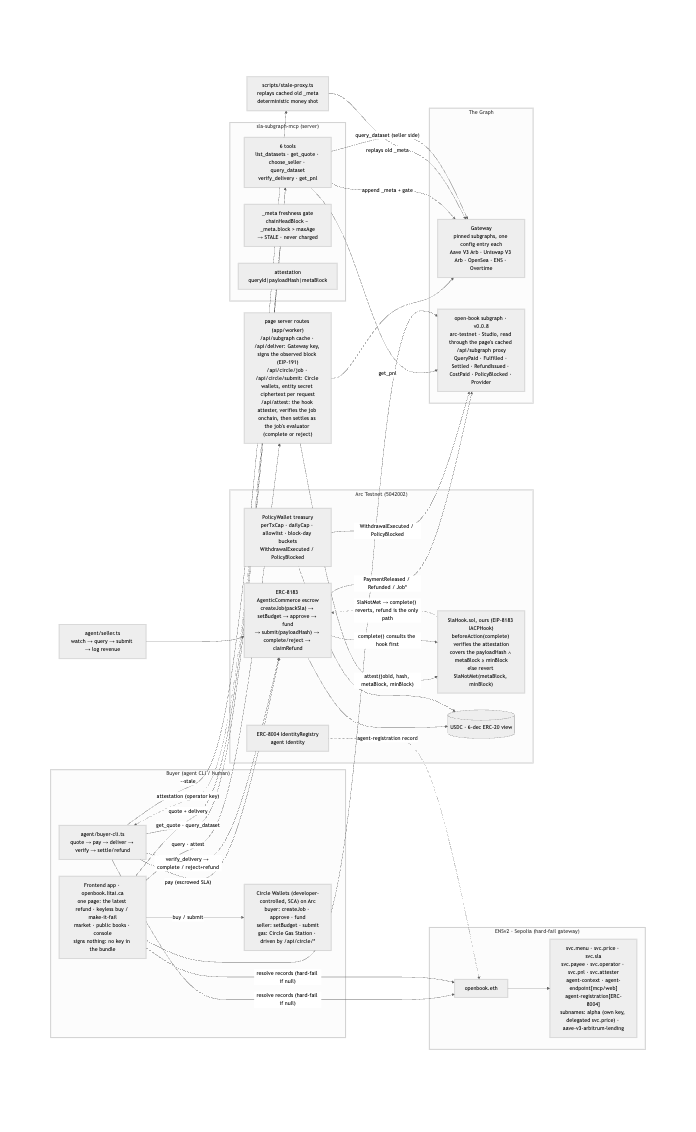
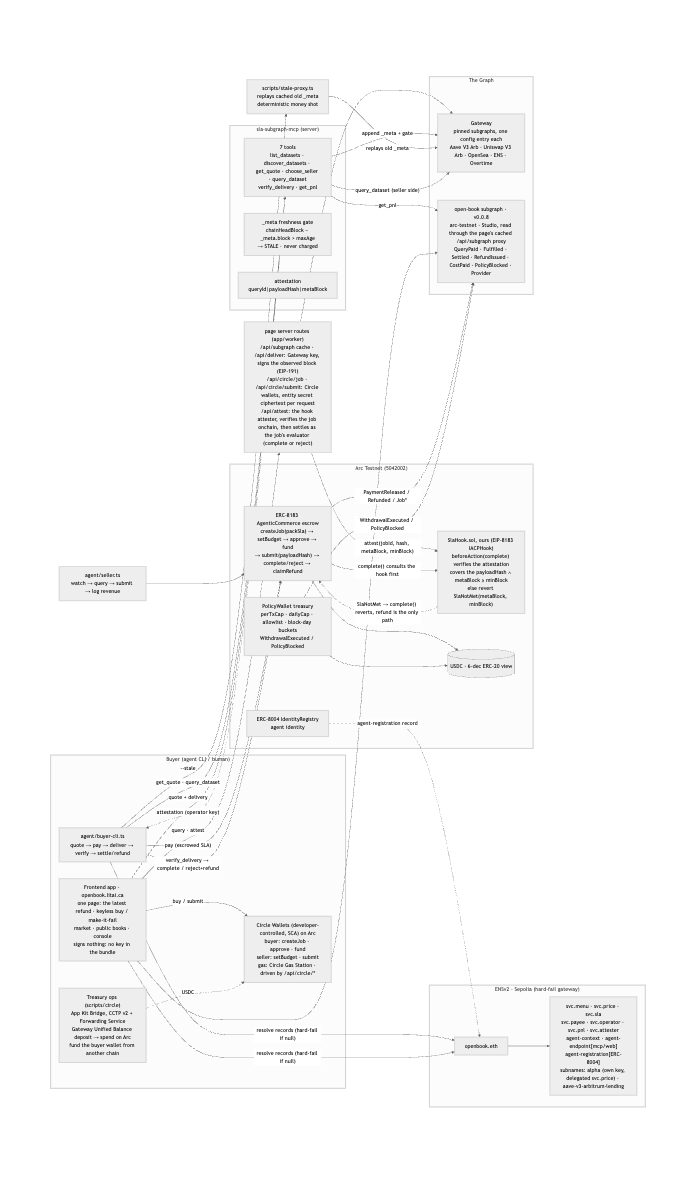
fix(app): the page's Circle wallets are in the books scope; status names the Circle wallets; seller directory scans logs on the public RPC (proxy caps eth_getLogs); attester named in the Try hint; full tx links; diagram with treasury ops

diff --git a/app/src/console/commands/inspect.ts b/app/src/console/commands/inspect.ts
@@ -13,7 +13,7 @@
 import { marketJobs } from "../../data/feed";
 import { CONFIG, type DatasetConfig } from "../../config";
 import { env } from "../../env";
-import { hasGatewayAccess } from "../../data/api";
+import { circleStatus, hasGatewayAccess } from "../../data/api";
 import { ADDR } from "../../data/addresses";
 import { demoAddress } from "../../data/chain";
 import { readPolicy } from "../../data/policy";
@@ -214,8 +214,13 @@ const statusCommand: Command = {
       rows.push([row.key, row.value]);
     }
     const demo = demoAddress();
+    const circle = await circleStatus();
+    if (circle.enabled && circle.buyer) {
+      rows.push(["buyer wallet", `Circle developer-controlled SCA ${circle.buyer} · signed on the server · ${circle.gas}`]);
+      if (circle.seller) rows.push(["seller wallet", `Circle developer-controlled SCA ${circle.seller} (the dataset's svc.payee)`]);
+    }
     if (demo === null) {
-      rows.push(["demo wallet", "unset · set VITE_DEMO_BUYER_KEY (act commands then degrade to wallet-connect)"]);
+      if (!circle.enabled) rows.push(["demo wallet", "unset · set VITE_DEMO_BUYER_KEY (act commands then degrade to wallet-connect)"]);
     } else {
       try {
         const balance = await ctx.publicClient.readContract({
@@ -282,7 +287,7 @@ const ensCanEditCommand: Command = {
     if (!name || !key || !address || !/^0x[0-9a-fA-F]{40}$/.test(address)) {
       return { render: "text", data: "usage: ens can-edit <name> <key> <0xaddress> · e.g. ens can-edit alpha.openbook.eth svc.price 0xe09C8F90931E97d0aEE998885b306DDF08CE08Cc" };
     }
-    const client = createDirectoryClient(env.sepoliaRpc);
+    const client = createDirectoryClient(env.sepoliaRpc); // one eth_call: the proxy is fine here
     const node = namehash(name);
     let verdict: string;
     let detail: string;

diff --git a/app/src/sections/TryIt.tsx b/app/src/sections/TryIt.tsx
@@ -167,7 +167,8 @@ export function TryIt({ armed, onArmedConsumed }: { armed: "fresh" | "fail" | nu
             arrives, so the contract has to refuse payment and the escrow refunds. The buyer is a Circle
             developer-controlled wallet on Arc that we fund with testnet USDC; the seller is a second Circle wallet,
             the one the dataset's ENS record names as payee. Every transaction is signed on the server through
-            Circle, with gas sponsored by Circle Gas Station.
+            Circle, with gas sponsored by Circle Gas Station. The venue's attester adjudicates each job: it signs
+            the block it observed, and the contract enforces that signed block against the floor.
           </p>
         </div>
         <div className="try__run">

diff --git a/app/src/components/Market.tsx b/app/src/components/Market.tsx
@@ -43,7 +43,9 @@ const SERVICE_KEYS = ["svc.menu", "svc.price", "svc.sla", "svc.payee", "svc.oper
 /** The app's OWN Sepolia reader + enumeration client, shared across polls
  *  (never the directory module's default client). */
 const marketEnsReader = createEnsTextReader({ rpcUrl: env.sepoliaRpc });
-const directoryClient = createDirectoryClient(env.sepoliaRpc);
+// the seller directory scans LabelRegistered logs in 2000-block ranges: the public RPC serves them,
+// the keyed proxy caps eth_getLogs at 10 blocks, so this client does not start on the proxy
+const directoryClient = createDirectoryClient(undefined);
 
 /** One seller row: ENS identity + records + per-dataset prices + subgraph stats. */
 export interface MarketSellerRow {

diff --git a/app/src/data/addresses.ts b/app/src/data/addresses.ts
@@ -18,4 +18,6 @@ export const OUR_ADDRESSES: `0x${string}`[] = [
   ADDR.operator, // operator (seller) key — provider side of every OpenBook job
   "0xAC548CFEfe70bb3199ee214F39bC9730a8A754De", // historical CLI buyer / treasury admin — keeps README-cited jobs (e.g. 185853) in the books
   ...((env.VITE_DEMO_BUYER_ADDRESS as string | undefined)?.split(",").filter(Boolean) as `0x${string}`[] ?? []), // demo buyer key's address (comma-separated ok)
+  // the page's Circle wallets (buyer pays, seller delivers): their jobs are the page's own runs
+  ...([env.VITE_CIRCLE_BUYER_ADDRESS, env.VITE_CIRCLE_SELLER_ADDRESS].filter((a): a is string => typeof a === "string" && /^0x[0-9a-fA-F]{40}$/.test(a)) as `0x${string}`[]),
 ];

diff --git a/README.md b/README.md
@@ -95,7 +95,7 @@ are organs, not stickers:
   **Sustainable by construction:** a configurable platform fee (2% on our
   escrow instance) routes every settlement's cut to the policy-gated treasury —
   verified onchain: the settlement receipt splits 0.0020 USDC to the
-  PolicyWallet and 0.0980 to the seller (tx `0xb4fbc894…`).
+  PolicyWallet and 0.0980 to the seller ([tx `0xb4fbc894…`](https://testnet.arcscan.app/tx/0xb4fbc8949598c9d940a8152618d891c545ab3be2cca94db9886fca07810c5512)).
 - **The Graph (the product):** `sla-subgraph-mcp`, a generic MCP server with a
   packaged, node-runnable bin (npm publishing is the one-line post-freeze step)
   that turns any subgraph into a paid, freshness-gated product; OpenBook is the reference
@@ -217,7 +217,7 @@ Service, so no destination gas is needed:
 (`bun scripts/circle/fund-buyer.ts 2.00`). A Gateway Unified Balance
 [deposit](https://sepolia.arbiscan.io/tx/0x577395fb4f7e51afde9b69f034b2667034f3d40b1f5fff061f7c0282899ab701)
 from the same treasury was then [spent on Arc](https://testnet.arcscan.app/tx/0xa956aabeb35342b8c03d7e728a60511f24dcae1793f4885ba290ea54cf196156)
-to the buyer wallet (1 USDC, allocated from the Arbitrum Sepolia deposit, fees 0.011 USDC).
+to the buyer wallet (1 USDC, allocated from the Arbitrum Sepolia deposit). Bridge and Gateway are treasury operations that fund the buyer; the purchase itself runs on the escrow.
 Source-chain testnet USDC comes from Circle's faucet API. The full product-by-product map for all three bounties is
 [docs/bounty-tech-map.md](docs/bounty-tech-map.md).
 
@@ -331,7 +331,9 @@ fresh clone, not inferred from the code.
   the ENSv2 storefront.
 - **Circle Wallets and Gas Station, not the Agent Stack CLI or Nanopayments.** The page's
   buyer and seller are Circle developer-controlled wallets with sponsored gas (verified live:
-  the seller wallet holds no USDC for gas and still submits). Per-query spend goes through
+  the seller wallet held no USDC when it first submitted, and every buyer and seller
+  operation goes through the EntryPoint with Circle's SponsorPaymaster paying, e.g. job 86
+  [submit](https://testnet.arcscan.app/tx/0x66135a8c6ec289d165023a16bb86bd53d478aa3a6c95f888a939bea2b46b6638)). Per-query spend goes through
   the ERC-8183 escrow, not x402, because the product is the refund, which x402 cannot
   express. An x402 lane for agents that want no recourse, and a Circle Agent Wallet buyer
   through the Agent Stack CLI, are the next steps in RUNBOOK.md.

diff --git a/docs/bounty-tech-map.md b/docs/bounty-tech-map.md
@@ -11,8 +11,8 @@ Sources: the ETHGlobal prize pages for Arc, The Graph and ENS, read on 2026-09-1
 | Arc, USDC as gas | every escrow, hook and treasury transaction | Live | any tx on the escrow `0x967e…7Dd5`; gas paid in native USDC |
 | Circle Contracts (ERC-8183 reference escrow) | the settlement rail; our `SlaHook` is whitelisted on our own instance | Live | escrow `0x967e…7Dd5`, hook `0x6060…0846` |
 | Circle Wallets (developer-controlled, SCA) | the page's buyer and seller wallets; the browser signs nothing | Live | buyer `0x00e8…59dc`, seller `0xb63f…6ca9`; jobs 84 to 86; `app/worker/circle.ts` |
-| Circle Gas Station | gas for both SCA wallets (Arc testnet default policy) | Live | the seller wallet holds no USDC and still submits (job 86 submit tx `0x66135a8c…`) |
-| App Kit Bridge (CCTP v2) | treasury funds the buyer from another chain | Live | Arbitrum Sepolia burn `0x49ea8d62…`, forwarder mint on Arc `0xe54af84c…` (`scripts/circle/fund-buyer.ts`) |
[1 lines of base64/hex data omitted]
+| App Kit Bridge (CCTP v2) | treasury funds the buyer from another chain (a treasury operation, not the purchase path) | Live | Arbitrum Sepolia burn `0x49ea8d62…`, forwarder mint on Arc `0xe54af84c…` (`scripts/circle/fund-buyer.ts`) |
 | Gateway (Unified Balance) | treasury deposits once on another chain, spends on Arc | Live | deposit on Arbitrum Sepolia `0x577395fb…`, spend on Arc `0xa956aabe…` (1 USDC to the buyer wallet, about ten minutes after the deposit) |
 | Paymaster | not needed: Gas Station sponsors the SCA wallets | Not used | Arc's own docs: gas is USDC; the EIP-3009 relayer path is for plain transfers |
 | Agent Stack (CLI wallet), Nanopayments, x402 | a pay-per-call lane for agents that want no recourse | Not used | the product is a refundable purchase, which x402 cannot express; Agent Stack CLI needs an email login |

diff --git a/docs/architecture.md b/docs/architecture.md
@@ -16,6 +16,8 @@ flowchart LR
         FE[Frontend app · openbook.litai.ca<br/>one page: the latest refund · keyless buy / make-it-fail<br/>market · public books · console<br/>signs nothing: no key in the bundle]
         CW["Circle Wallets (developer-controlled, SCA) on Arc<br/>buyer: createJob · approve · fund<br/>seller: setBudget · submit<br/>gas: Circle Gas Station · driven by /api/circle/*"]
         FE -->|"buy / submit"| CW
+        TR["Treasury ops (scripts/circle)<br/>App Kit Bridge, CCTP v2 + Forwarding Service<br/>Gateway Unified Balance deposit → spend on Arc<br/>fund the buyer wallet from another chain"]
+        TR -.->|"USDC"| CW
     end
 
     subgraph ENSv2["ENSv2 · Sepolia (hard-fail gateway)"]
